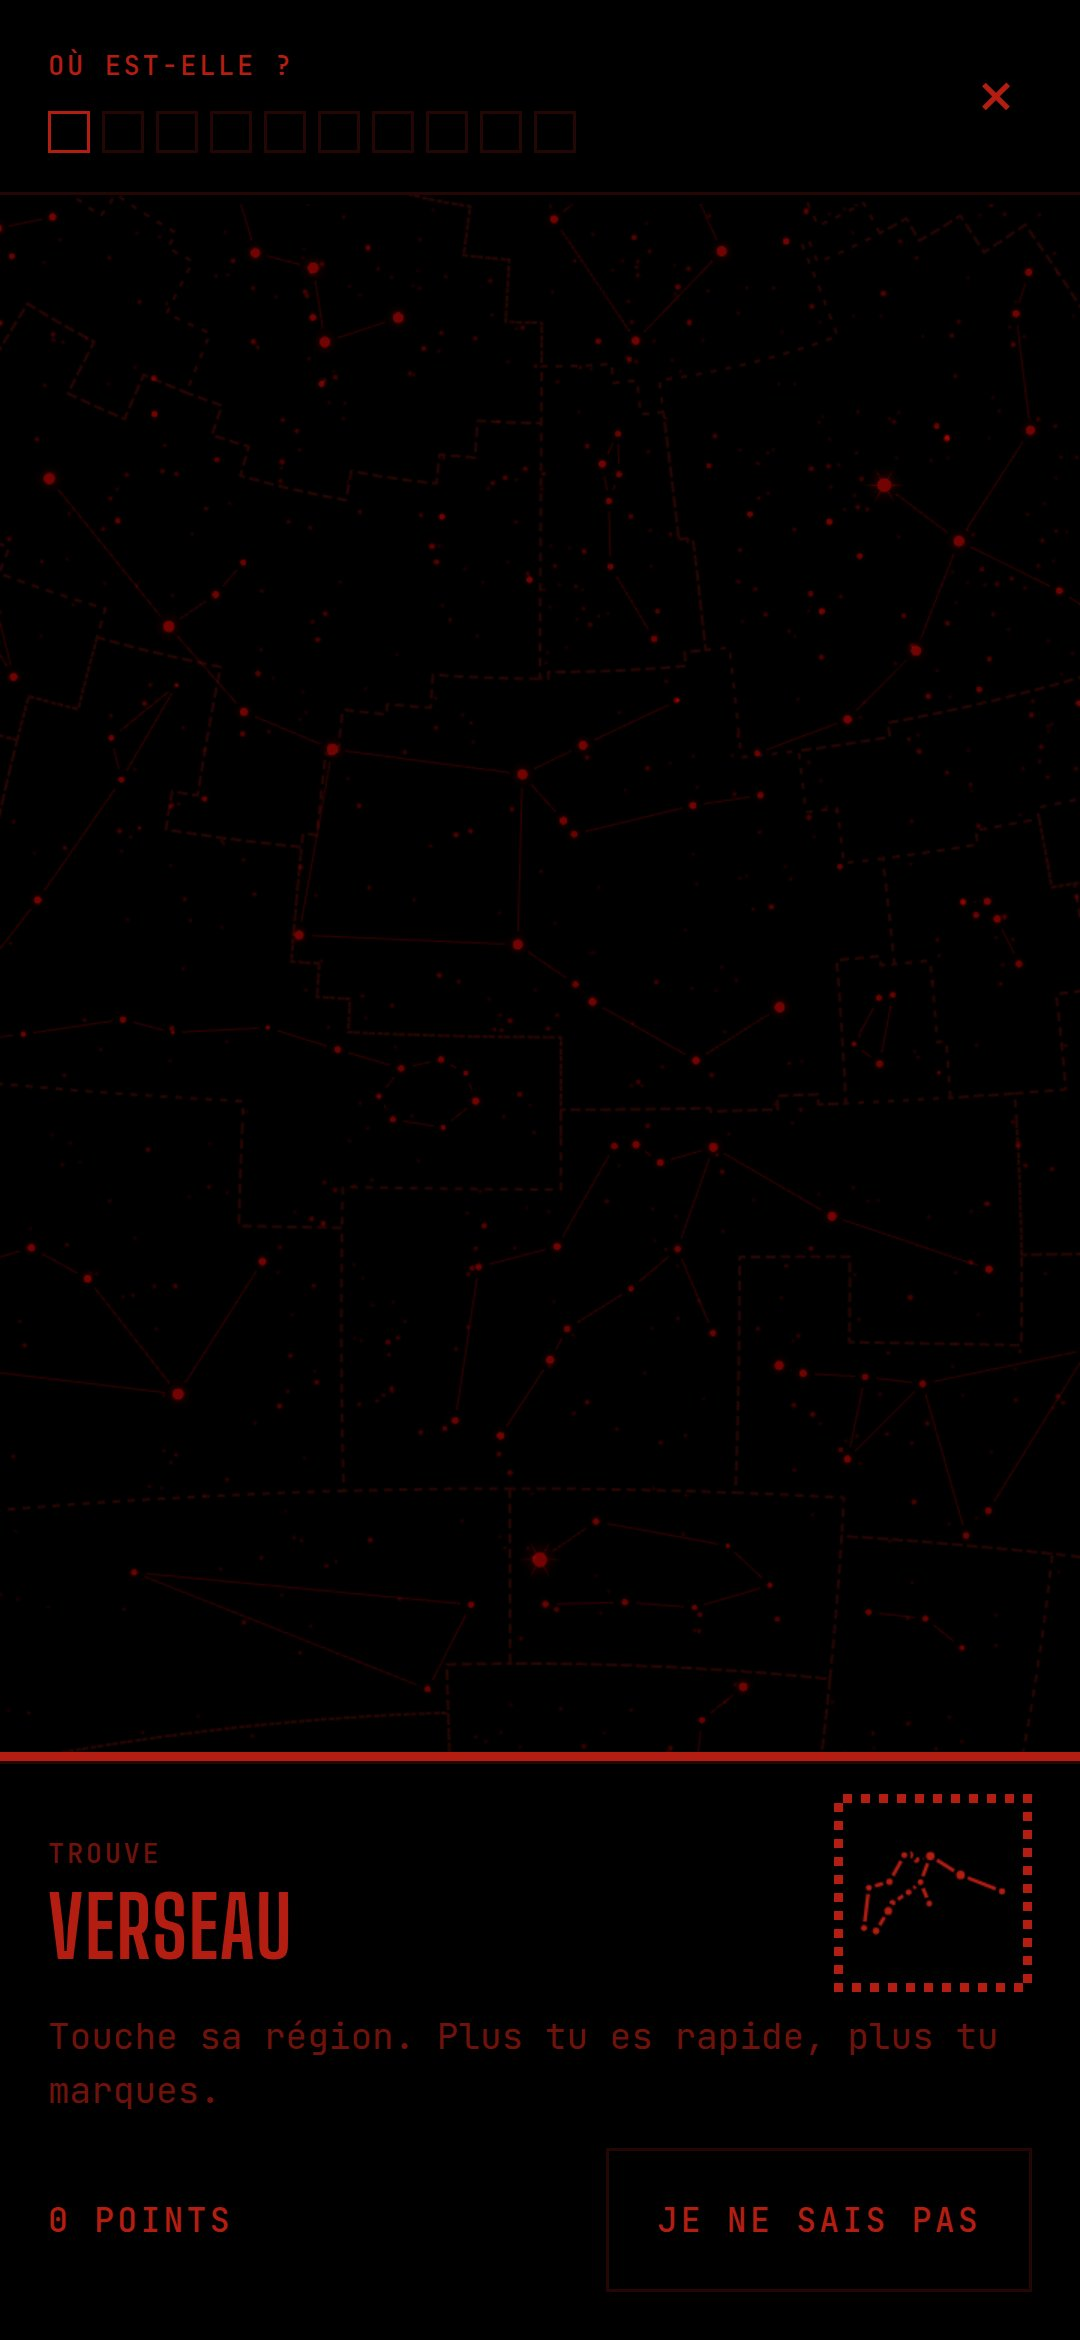
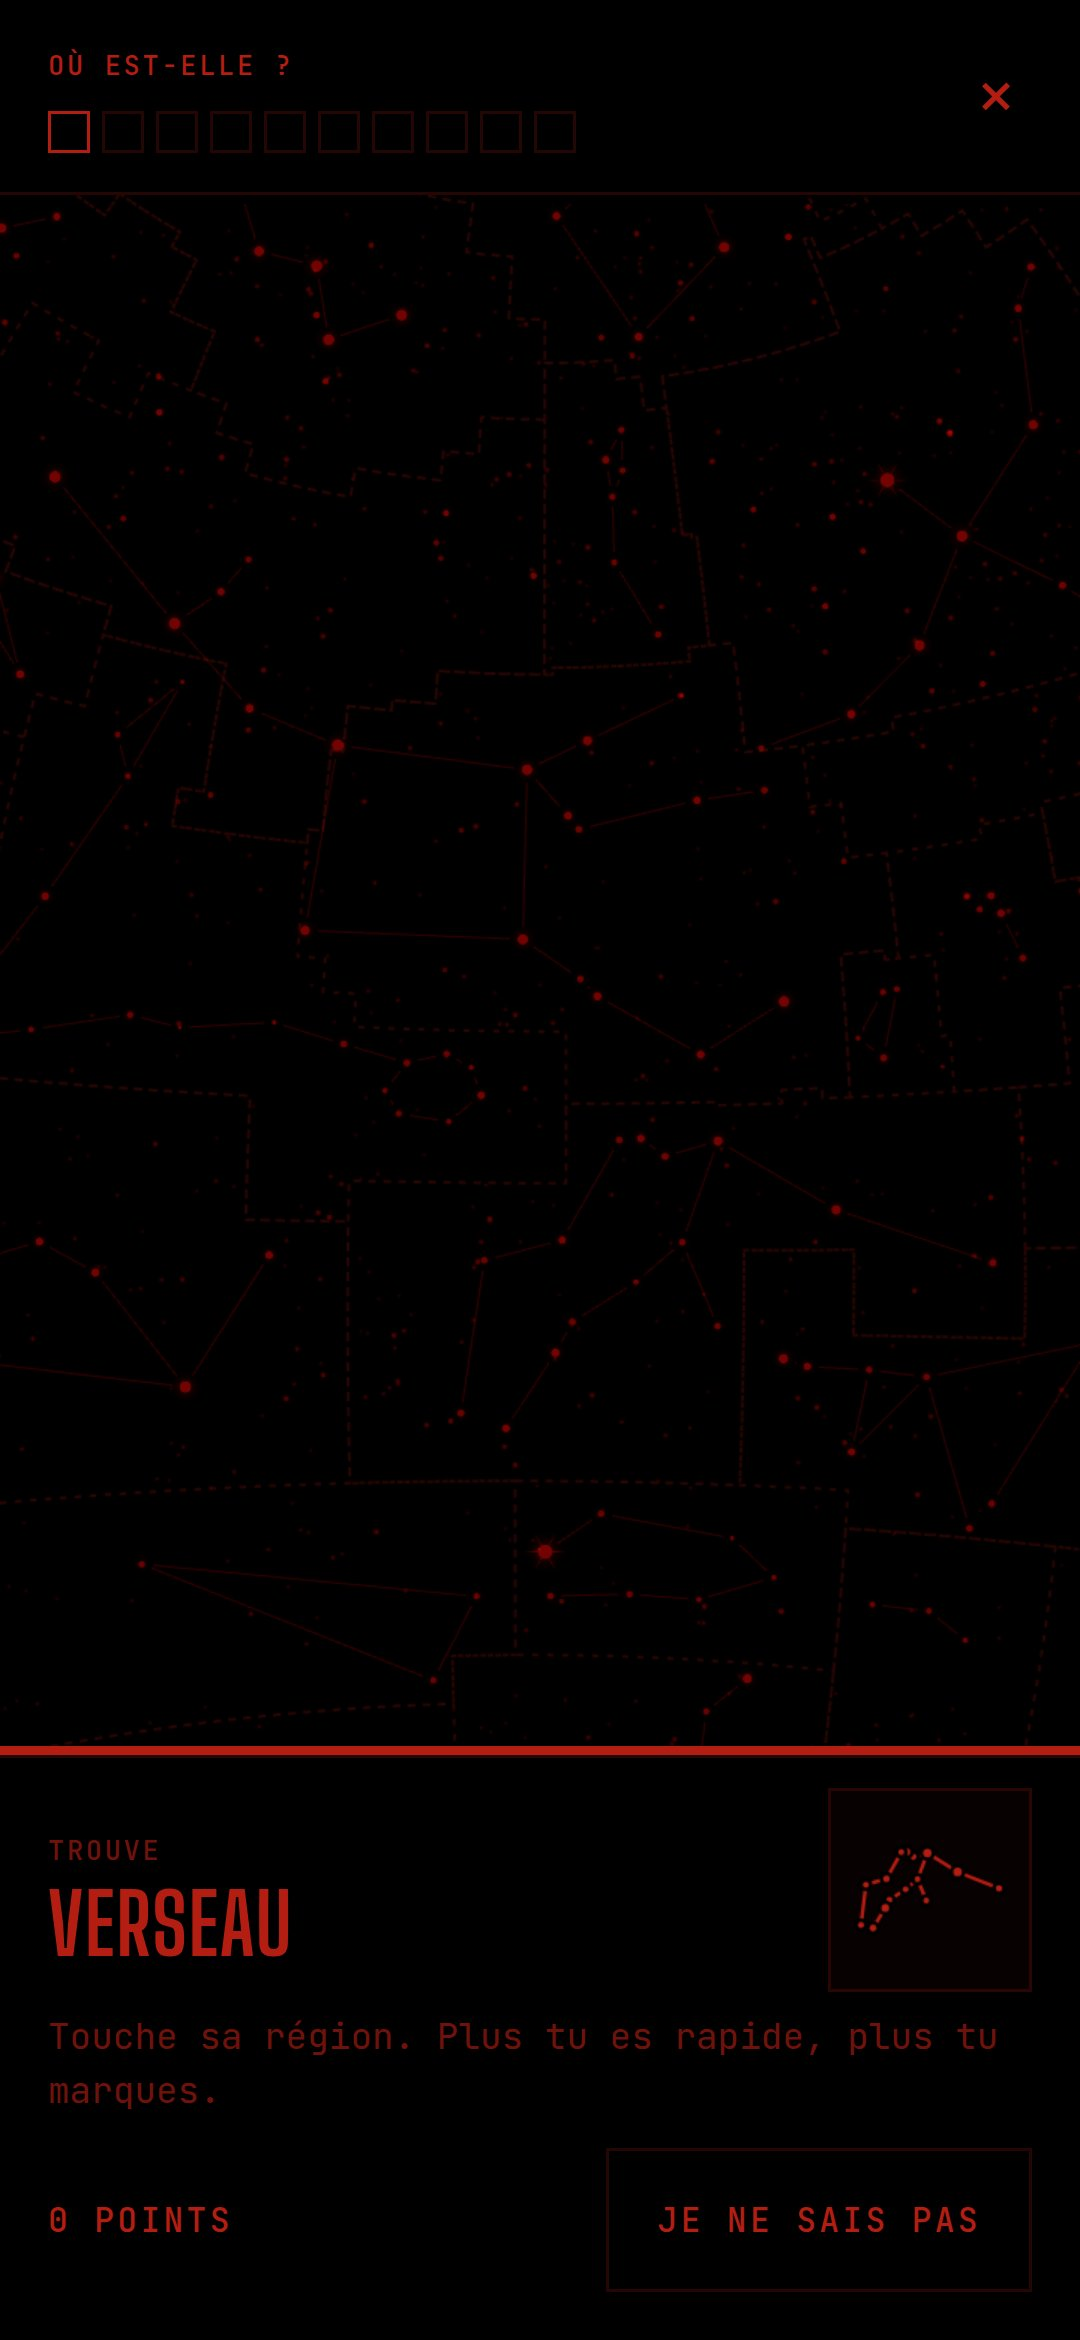
fix(ui): no dashed frames left on game labels and catalogue cells (#184, #185)
The ART_DIRECTION rule from #185: « À revoir » tags, wrong quiz choices and the
catalogue's learning cell use solid borders or the fine-dot fill instead.

Claude-Session: https://claude.ai/code/session_01N1QFv7eBBRTZ3qycztnweP

diff --git a/apps/web/src/components/Catalogue.svelte b/apps/web/src/components/Catalogue.svelte
@@ -318,9 +318,11 @@
   .cell.mastered {
     border: 1px solid var(--ast-hairline);
   }
+  /* Fine dots, then checkerboard, then solid: the « Ton ciel » scale (#185, no dashed cells). */
   .cell.learning {
-    border-style: dashed;
     border-color: var(--ast-fg-muted);
+    background: conic-gradient(from 270deg at 1px 1px, var(--ast-fg) 25%, transparent 0) 0 0 / 2px
+      2px;
   }
   .cell.known {
     border-color: var(--ast-fg);

diff --git a/apps/web/src/components/SeriesEnd.svelte b/apps/web/src/components/SeriesEnd.svelte
@@ -161,7 +161,7 @@
     border-color: var(--ast-fg);
   }
   .tag.review {
-    border-style: dashed;
+    border-color: var(--ast-fg-muted);
   }
   .end-actions {
     display: grid;

diff --git a/apps/web/src/components/QuizGame.svelte b/apps/web/src/components/QuizGame.svelte
@@ -433,7 +433,6 @@
     color: inherit;
   }
   .choice.wrong {
-    border-style: dashed;
     border-color: var(--ast-fg-muted);
     color: var(--ast-fg-muted);
   }
